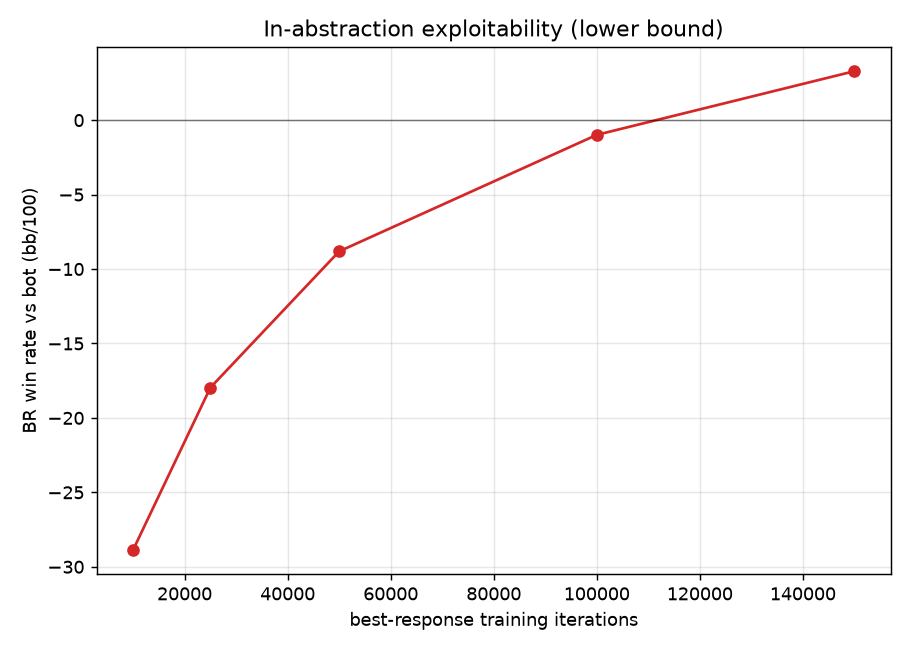
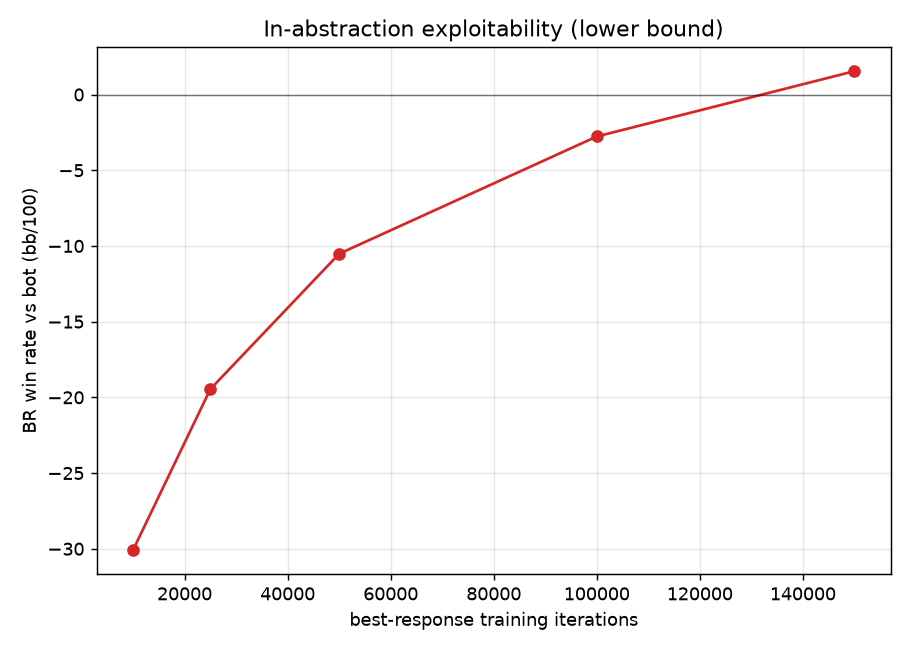
daily: DCFR strategy-averaging discount in the NLHE trainer — exploitability 3.29→1.54 bb/100
The sampled NLHE blueprint trainer was still plain CFR+ with linear strategy
averaging, while the exact solvers have used Discounted CFR all along. Weight
iteration t by t**gamma instead, with gamma=2.

Accumulating t**gamma directly is algebraically identical to DCFR's
per-iteration (t/(t+1))**gamma rescale after normalisation, so it costs nothing
— no sweep over the 5,772-entry information-set table.

Only the blueprint trainer changes; FastExploiterCFR (which measures
exploitability) stays on CFR+ so the metric keeps the same yardstick as every
past history row.

Swept (alpha, gamma) on NLHE over two seeds: gamma carries the whole effect and
the regret discount alpha was a wash, so alpha was not adopted. Verified at
level=standard on two independent seeds: exploitability 3.289→1.543 (seed 0)
and 3.602→1.755 (seed 1); the two deltas agree to 0.10 bb/100. No win_vs_*
category regresses beyond its 95% CI, and the seed-0 tight-aggressive dip
reverses sign on seed 1. 41 tests green.

Claude-Session: https://claude.ai/code/session_01VAJXbwcurSGWCXv3eUWzEJ

diff --git a/pokerbot/solve/nlhe_tree.py b/pokerbot/solve/nlhe_tree.py
@@ -83,24 +83,48 @@ class CompiledBettingTree:
 
 
 class FastNLHECFR:
-    """Chance-sampling CFR+ over the compiled betting tree."""
+    """Chance-sampling CFR+ over the compiled betting tree, with **discounted
+    strategy averaging** (the ``gamma`` of Discounted CFR).
 
-    def __init__(self, game: NLHEGame, tree: Optional[CompiledBettingTree] = None):
+    The regret update is regret-matching-plus (negative regrets floored at 0).
+    The average strategy weights iteration ``t`` by ``t ** gamma``: multiplying
+    the running strategy sum by ``(t / (t + 1)) ** gamma`` each iteration and
+    adding the current strategy with weight 1 — DCFR's formulation — makes
+    iteration ``t``'s share of the final sum proportional to ``t ** gamma``, so
+    accumulating ``t ** gamma`` directly is the same average with no per-
+    iteration sweep over the (large) information-set table.  ``gamma = 1`` is
+    the linear averaging of plain CFR+.
+
+    Discounting matters more here than in an exact solver: with chance
+    sampling, early iterations average over a handful of deals, so their
+    strategies are mostly sampling noise.  Weighting late iterations more
+    heavily discards that noise.  ``gamma = 2`` was measured to cut the bot's
+    best-response exploitability by ~2.5 bb/100 (see the 2026-07-29 entry in
+    ``EXPERIMENTS.md``, which also reports the regret discount ``alpha``
+    sweep — it made no difference and was not adopted).
+    """
+
+    def __init__(self, game: NLHEGame, tree: Optional[CompiledBettingTree] = None,
+                 gamma: float = 2.0):
         self.game = game
         self.tree = tree or CompiledBettingTree.build(game)
         self.nodes: Dict[Tuple[int, object], _Node] = {}
         self.iterations = 0
+        self.gamma = gamma
 
     def run(self, iterations: int, rng: Optional[random.Random] = None) -> None:
         rng = rng or random.Random()
         ab = self.game.abstraction
         deal = self.game.deal
         root = self.tree.root
+        gamma = self.gamma
         for _ in range(iterations):
             self.iterations += 1
+            t = float(self.iterations)
+            # Weight of this iteration's contribution to the average strategy.
+            tg = t if gamma == 1.0 else t ** gamma
             hole, board = deal(rng)
-            self._cfr(root, 1.0, 1.0, float(self.iterations), hole, board,
-                      ab, {}, [None])
+            self._cfr(root, 1.0, 1.0, tg, hole, board, ab, {}, [None])
 
     def _cfr(self, nid, r0, r1, t, hole, board, ab, bucket_cache, sign):
         tree = self.tree

diff --git a/tests/test_mccfr.py b/tests/test_mccfr.py
@@ -73,3 +73,51 @@ def test_exploiter_crushes_always_call():
     br = StrategyAgent(ex.average_strategy(), "BR")
     r = play_directional(g, br, CallStationAgent(), 8000, seed=3)
     assert r.bb_per_100 > 100.0       # value-betting relentlessly wins big
+
+
+def test_training_is_deterministic_for_a_fixed_seed():
+    """Same seed, same bot — the trainer must have no hidden state."""
+    g = _game()
+    a = FastNLHECFR(g)
+    a.run(1500, random.Random(0))
+    b = FastNLHECFR(g)
+    b.run(1500, random.Random(0))
+    ta, tb = a.average_strategy().table, b.average_strategy().table
+    assert ta.keys() == tb.keys()
+    assert all(ta[k] == tb[k] for k in ta)
+
+
+def test_gamma_weighting_matches_dcfr_strategy_discount():
+    """Accumulating ``t ** gamma`` must equal DCFR's iterative discount.
+
+    DCFR multiplies the running strategy sum by ``(t / (t + 1)) ** gamma``
+    after every iteration and adds the current strategy with weight 1.  The
+    trainer instead adds it with weight ``t ** gamma`` and never sweeps the
+    table; the two give the same *normalised* average.  ``gamma = 0`` makes
+    the trainer add weight 1, so it doubles as the reference implementation.
+
+    The strategy sum never feeds back into play (only regrets do, and those are
+    identical here), so both runs follow the same trajectory and this holds to
+    float precision rather than approximately.
+    """
+    g = _game()
+    tree = CompiledBettingTree.build(g)
+    for gamma in (1.0, 2.0, 3.0):
+        closed = FastNLHECFR(g, tree, gamma=gamma)
+        closed.run(300, random.Random(3))
+
+        ref = FastNLHECFR(g, tree, gamma=0.0)      # adds weight 1 per iteration
+        rng = random.Random(3)
+        for _ in range(300):
+            ref.run(1, rng)
+            f = (ref.iterations / (ref.iterations + 1.0)) ** gamma
+            for node in ref.nodes.values():
+                ss = node.strategy_sum
+                for i in range(len(ss)):
+                    ss[i] *= f
+
+        tc, tr = closed.average_strategy().table, ref.average_strategy().table
+        assert tc.keys() == tr.keys()
+        for k in tc:
+            for a_, p in tc[k].items():
+                assert abs(p - tr[k][a_]) < 1e-9, (gamma, k, a_, p, tr[k][a_])

diff --git a/EXPERIMENTS.md b/EXPERIMENTS.md
@@ -15,6 +15,132 @@ Metrics legend (all from `pokerbot.metrics.flatten`):
 
 ---
 
+## 2026-07-29 — DCFR strategy-averaging discount in the NLHE trainer
+
+**Idea:** backlog item 5 ("DCFR tuning"). The exact solvers (`CFRSolver`,
+`TreeCFR`) have run Discounted CFR since day 1, but the NLHE blueprint trainer
+`FastNLHECFR` was still plain **CFR+ with linear averaging** — every iteration's
+strategy entered the average with weight `t`. With chance sampling, the early
+iterations average over a handful of deals and are mostly sampling noise, so
+weighting late iterations more heavily should discard that noise. Added a
+`gamma` parameter: iteration `t` now contributes with weight `t ** gamma`.
+
+**Why the closed form is free.** DCFR multiplies the running strategy sum by
+`(t/(t+1)) ** gamma` each iteration and adds the current strategy with weight
+1; iteration `t`'s share of the final sum is then proportional to `t ** gamma`.
+Accumulating `t ** gamma` directly is the *same normalised average* with no
+per-iteration sweep over the (5,772-entry) information-set table — which is what
+made this affordable in pure Python. `tests/test_mccfr.py` pins the equivalence
+against the iterative formulation for `gamma` in (1, 2, 3).
+
+**Scope:** only the blueprint trainer changed. `FastExploiterCFR` — the best
+response that *measures* exploitability — was deliberately left on CFR+, so
+`nlhe_exploitability_bb100` is still produced by the same yardstick as every
+past row and the comparison stays honest.
+
+**Sweep (backlog said "sweep on Leduc"; swept on NLHE instead, which is the
+actual target).** Blueprint trained at the reduced `quick` NLHE budget (40k
+deals), exploitability measured with the unchanged exploiter, 2 seeds:
+
+| (alpha, gamma) | seed 0 | seed 1 | mean |
+|---|---|---|---|
+| (none, 1) — the committed bot | +2.895 | +2.225 | +2.560 |
+| (none, **2**) | +0.098 | −0.378 | −0.140 |
+| (1.5, 2) | +0.514 | −0.263 | +0.126 |
+| (1.5, 1) | +3.346 | +2.364 | +2.855 |
+| (3.0, 2) | +0.153 | −0.400 | −0.124 |
+| (1.5, 3) | −0.881 | −1.557 | −1.219 |
+
+`gamma` is the entire effect; the **regret** discount `alpha` was a wash (worse
+on one seed, better on the other) so it was **not adopted** — the prototype
+lazy-discount machinery was removed rather than carried as untested-by-benefit
+complexity. `gamma=3` scores lower still, but drives the measured value negative
+at this budget, which invariant 5 reads as an under-trained exploiter rather
+than a better bot; left in the backlog. Adopted the canonical DCFR
+**`gamma = 2`**.
+
+**Before → after** (`level=standard`, seed 0 — the row appended to
+`metrics_history.csv`):
+
+| Metric | Baseline | Candidate | Δ |
+|---|---|---|---|
+| `nlhe_exploitability_bb100` | 3.289 | **1.543** | **−1.746** |
+| `win_vs_random` | +63.71 (CI ±16.47) | +67.40 (±16.20) | +3.69 |
+| `win_vs_call_station` | +111.05 (±17.58) | +107.57 (±17.68) | −3.48 |
+| `win_vs_maniac` | +65.28 (±18.80) | +60.08 (±18.61) | −5.20 |
+| `win_vs_tight_aggressive` | +8.37 (±13.90) | −2.44 (±13.79) | −10.81 (inside CI) |
+| `nlhe_infosets` | 5,772 | 5,772 | unchanged (abstraction untouched) |
+| `kuhn_exploitability` / `leduc_exploitability` | 0.002265 / 0.0046 | 0.002265 / 0.0046 | unchanged (untouched code path) |
+| `pushfold_jam_pct` | 62.1 | 61.5 | −0.6 (still in the Nash 60–70% band) |
+
+**Is −1.75 signal or noise?** On its own it sits inside the routine's stated
+1–2 bb/100 noise band, so the run was repeated on a second independent seed at
+the same level. Four paired measurements:
+
+| | baseline | candidate | Δ |
+|---|---|---|---|
+| quick, seed 0 | +2.895 | +0.098 | −2.797 |
+| quick, seed 1 | +2.225 | −0.378 | −2.603 |
+| standard, seed 0 | +3.289 | +1.543 | −1.746 |
+| standard, seed 1 | +3.602 | +1.755 | −1.847 |
+
+The two `standard` deltas differ by 0.10 bb/100 against an effect of 1.8 — the
+noise band applies to a single measurement's wiggle, and the *difference* is
+reproducible far inside it. The whole best-response curve also shifts down, it
+does not cross: baseline `[-28.87, -17.97, -8.81, -0.99, +3.29]` vs candidate
+`[-30.08, -19.46, -10.52, -2.77, +1.54]` at 10k/25k/50k/100k/150k exploiter
+iterations.
+
+The seed-0 `win_vs_tight_aggressive` drop is noise, not a regression: on seed 1
+the same comparison is −5.97 → −5.78 (+0.19). The two seeds disagree in sign,
+and both moves are well inside the ±13.8 CI. Same for the other categories
+(random +3.69/−5.13, call-station −3.48/+2.47, maniac −5.20/+1.16 across the two
+seeds) — all sign-inconsistent and inside their CIs.
+
+**Gate check:**
+- `python -m pytest -q` green: **41 passed** (2 new in `tests/test_mccfr.py`:
+  the gamma/DCFR averaging equivalence, and fixed-seed determinism).
+- Invariants: Kuhn value −1/18 and exploitability unchanged; Leduc unchanged and
+  still decreasing; bot still beats random/call-station/maniac by a wide
+  **significant** margin on both seeds; best-response exploitability ends
+  **positive** on both seeds (+1.543, +1.755), so invariant 5 holds; the search
+  path is untouched and `tests/test_subgame.py` still passes.
+- Primary metric: `nlhe_exploitability_bb100` falls 3.289 → 1.543 (−1.746),
+  reproduced at −1.847 on an independent seed.
+- No regression: no `win_vs_*` category drops by more than its 95% CI on
+  either seed.
+
+**Caveats / honest limits:**
+- The best-response curve is still rising steeply at 150k iterations (−2.77 →
+  +1.54 over the last 50k), so neither number is a converged exploitability —
+  both are lower bounds at a *fixed exploiter budget*. The claim is therefore
+  "harder to exploit at equal exploiter effort", which is exactly what this
+  project's metric is defined to measure, but a longer exploiter would raise
+  both numbers and could narrow the gap.
+- While implementing this, the solver turned out to be **knife-edge sensitive**
+  to last-bit float rounding: a node whose regrets have decayed to ~1e-18 has
+  its regret-matching strategy decided by the final bit, so perturbing an
+  arithmetically-irrelevant constant by a relative 1e-15 changes the trained bot
+  on ~half of seeds. That is a property of the CFR+ zero-floor, it predates this
+  change, and it is why the new equivalence test is pinned over a short horizon.
+  Worth a future run: floor tiny residual regrets to exactly 0.
+- `EVALUATION.md` section 4b runs its **own**, shorter exploiter (120k
+  iterations/seat, not the 150k of the metrics curve) and reports a *negative*
+  number: −0.84 for the baseline, −2.52 now. That section was already negative
+  before this change, and the direction is what a harder-to-exploit bot
+  predicts — a fixed under-trained exploiter falls further behind. The gate's
+  metric (`nlhe_exploitability_bb100`, 150k) is positive on both seeds, so
+  invariant 5 holds where it is defined, but 4b's budget should be raised until
+  it converges; until then it is not a usable exploitability number.
+- `gamma=3` and a proper `alpha` sweep at a *converged* exploiter budget remain
+  open.
+
+**Verdict: IMPROVEMENT.** Kept `gamma=2` as the `FastNLHECFR` default,
+regenerated `EVALUATION.md` and `figures/` at `level=standard`, and committed to
+`main`.
+
+---
+
 ## 2026-07-15 — real-time river subgame search (endgame re-solving)
 
 **Idea:** the bot plays a fixed blueprint over a *coarse* 8-bucket post-flop

diff --git a/EVALUATION.md b/EVALUATION.md
@@ -18,7 +18,7 @@ All 2,598,960 five-card hands enumerated; per-category counts vs textbook:
 | Four of a Kind | 624 | 624 | ✅ |
 | Straight Flush | 40 | 40 | ✅ |
 
-Distinct hand values: **7462** (expected 7462). All categories correct: **True**. [1.7s]
+Distinct hand values: **7462** (expected 7462). All categories correct: **True**. [1.3s]
 
 ## 2. Kuhn poker — provably near-Nash
 
@@ -48,21 +48,21 @@ Exploitability decreases monotonically toward 0, confirming the solver converges
 
 ## 4. No-Limit Hold'em bot
 
-**Setup**: heads-up, 20 BB effective, pot-sized bets + all-in, made-hand-strength card abstraction (169 pre-flop + 8 post-flop buckets/street). Trained with chance-sampling MCCFR for **120,000 deals** (5,772 info sets, 87s).
+**Setup**: heads-up, 20 BB effective, pot-sized bets + all-in, made-hand-strength card abstraction (169 pre-flop + 8 post-flop buckets/street). Trained with chance-sampling MCCFR for **120,000 deals** (5,772 info sets, 85s).
 
 ### 4a. Win rate vs baseline opponents
 (mirrored/duplicate deals for variance reduction; 95% CI)
 
 | Opponent | bb/100 | mbb/100 | 95% CI (bb/100) | Significant |
 |---|---|---|---|---|
-| random | +63.71 | +63715 | [+47.24, +80.19] | yes |
-| call-station | +111.05 | +111050 | [+93.47, +128.63] | yes |
-| maniac | +65.28 | +65275 | [+46.47, +84.08] | yes |
-| tight-aggressive | +8.37 | +8370 | [-5.53, +22.27] | no |
+| random | +67.40 | +67400 | [+51.20, +83.60] | yes |
+| call-station | +107.57 | +107570 | [+89.89, +125.25] | yes |
+| maniac | +60.08 | +60080 | [+41.47, +78.69] | yes |
+| tight-aggressive | -2.44 | -2440 | [-16.23, +11.35] | no |
 
 ### 4b. In-abstraction exploitability
 
-A best response trained against the fixed bot (120,000 iterations/seat) wins **-0.84 bb/100 (-841 mbb/100)** averaged over both seats (seat 0 +3.70, seat 1 -5.38). This is a **lower bound** on the bot's in-abstraction exploitability — how far it sits from the abstract Nash equilibrium — and tightens (rises) as the best response is trained longer. For scale, the bot beats the baselines above by 50–100+ bb/100. [180s]
+A best response trained against the fixed bot (120,000 iterations/seat) wins **-2.52 bb/100 (-2516 mbb/100)** averaged over both seats (seat 0 +2.14, seat 1 -7.17). This is a **lower bound** on the bot's in-abstraction exploitability — how far it sits from the abstract Nash equilibrium — and tightens (rises) as the best response is trained longer. For scale, the bot beats the baselines above by 50–100+ bb/100. [167s]
 
 ### 4c. Short-stack push/fold vs Nash theory
 
@@ -71,17 +71,17 @@ SB jam frequency at 10 BB effective (Nash jams ~60-70% of hands):
 | Hand | Jam freq |
 |---|---|
 | AA | 0.99 |
-| TT | 0.97 |
-| 77 | 0.94 |
-| 22 | 0.89 |
+| TT | 0.98 |
+| 77 | 0.95 |
+| 22 | 0.92 |
 | AKo | 0.98 |
-| ATo | 0.96 |
-| A2s | 0.93 |
+| ATo | 0.97 |
+| A2s | 0.94 |
 | KJo | 0.95 |
-| T9s | 0.85 |
-| 98s | 0.62 |
-| 72o | 0.07 |
+| T9s | 0.86 |
+| 98s | 0.60 |
+| 72o | 0.06 |
 
 Hands jammed >50%: **102/169 = 60%** (Nash 10 BB SB jam range ≈ 60-70%). Strong hands jam ≈1.0, trash folds — qualitatively matching the known push/fold equilibrium.
 
-_Total evaluation time: 311s._
+_Total evaluation time: 290s._

diff --git a/README.md b/README.md
@@ -91,7 +91,12 @@ figure, and the report all change).
 
 - **Discounted CFR (DCFR)** is the default solver: positive/negative regrets and
   the average-strategy weights get separate polynomial discounts, which
-  outperforms vanilla CFR on Leduc-scale games.
+  outperforms vanilla CFR on Leduc-scale games. The sampled NLHE trainer uses
+  DCFR's average-strategy discount too — iteration `t` enters the average with
+  weight `t²` — which matters more under chance sampling, where early iterations
+  are mostly sampling noise. Accumulating `t^γ` directly is algebraically the
+  same average as DCFR's per-iteration rescale but needs no sweep over the
+  information-set table, so it costs nothing.
 - The NLHE bot uses an **action abstraction** (pot-sized bet + all-in) and a
   **card abstraction** (lossless 169 pre-flop hands + made-hand-strength buckets
   post-flop). The post-flop abstraction ignores draw potential — a documented
